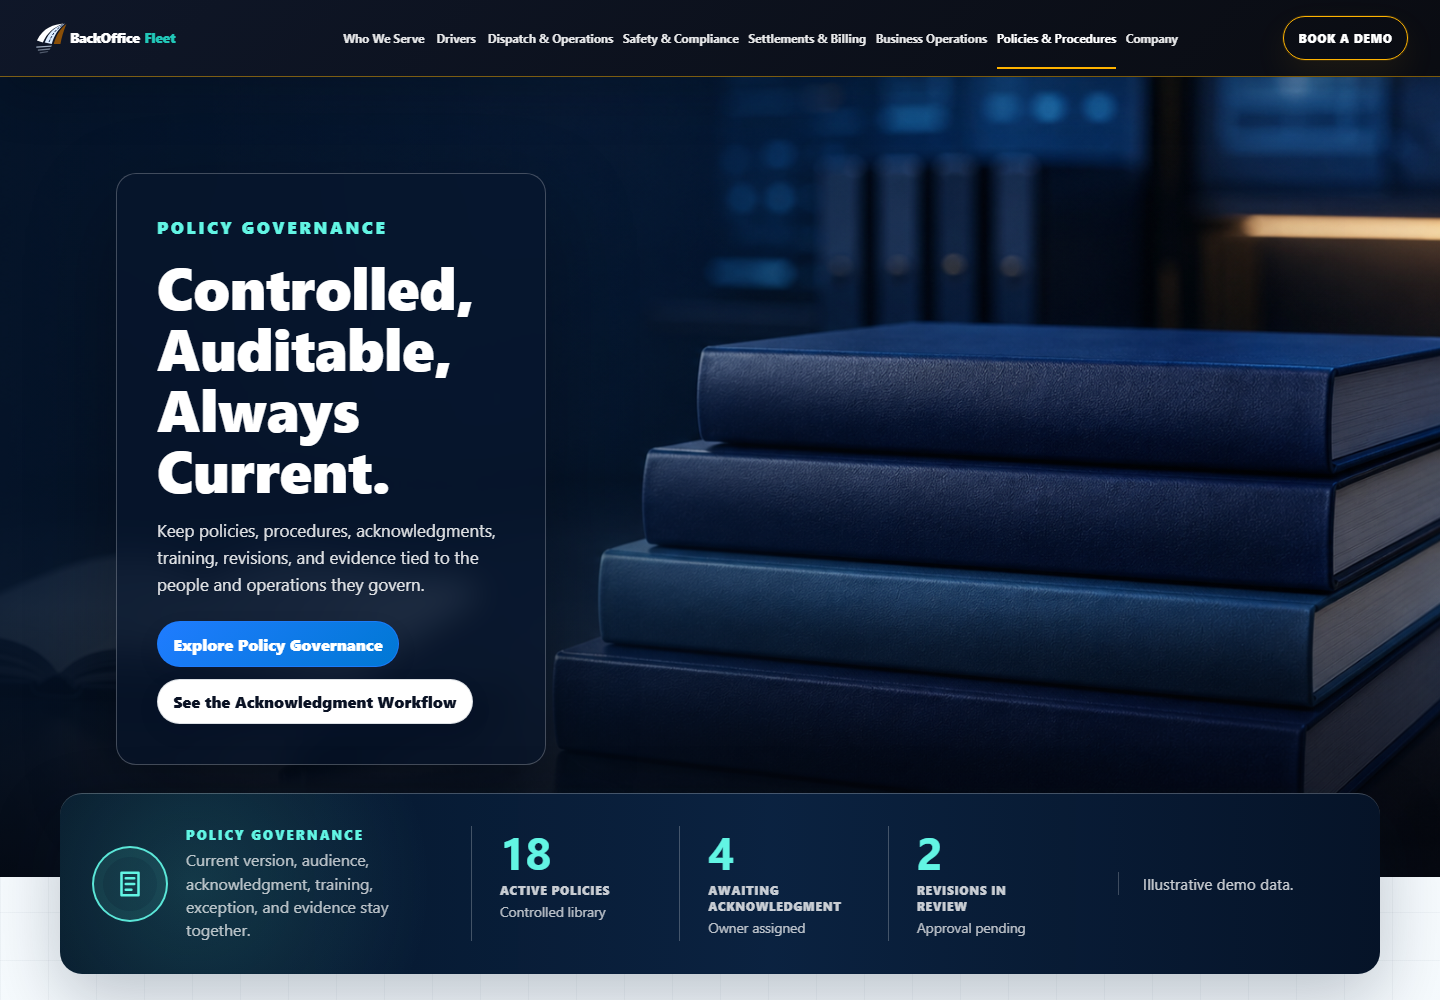
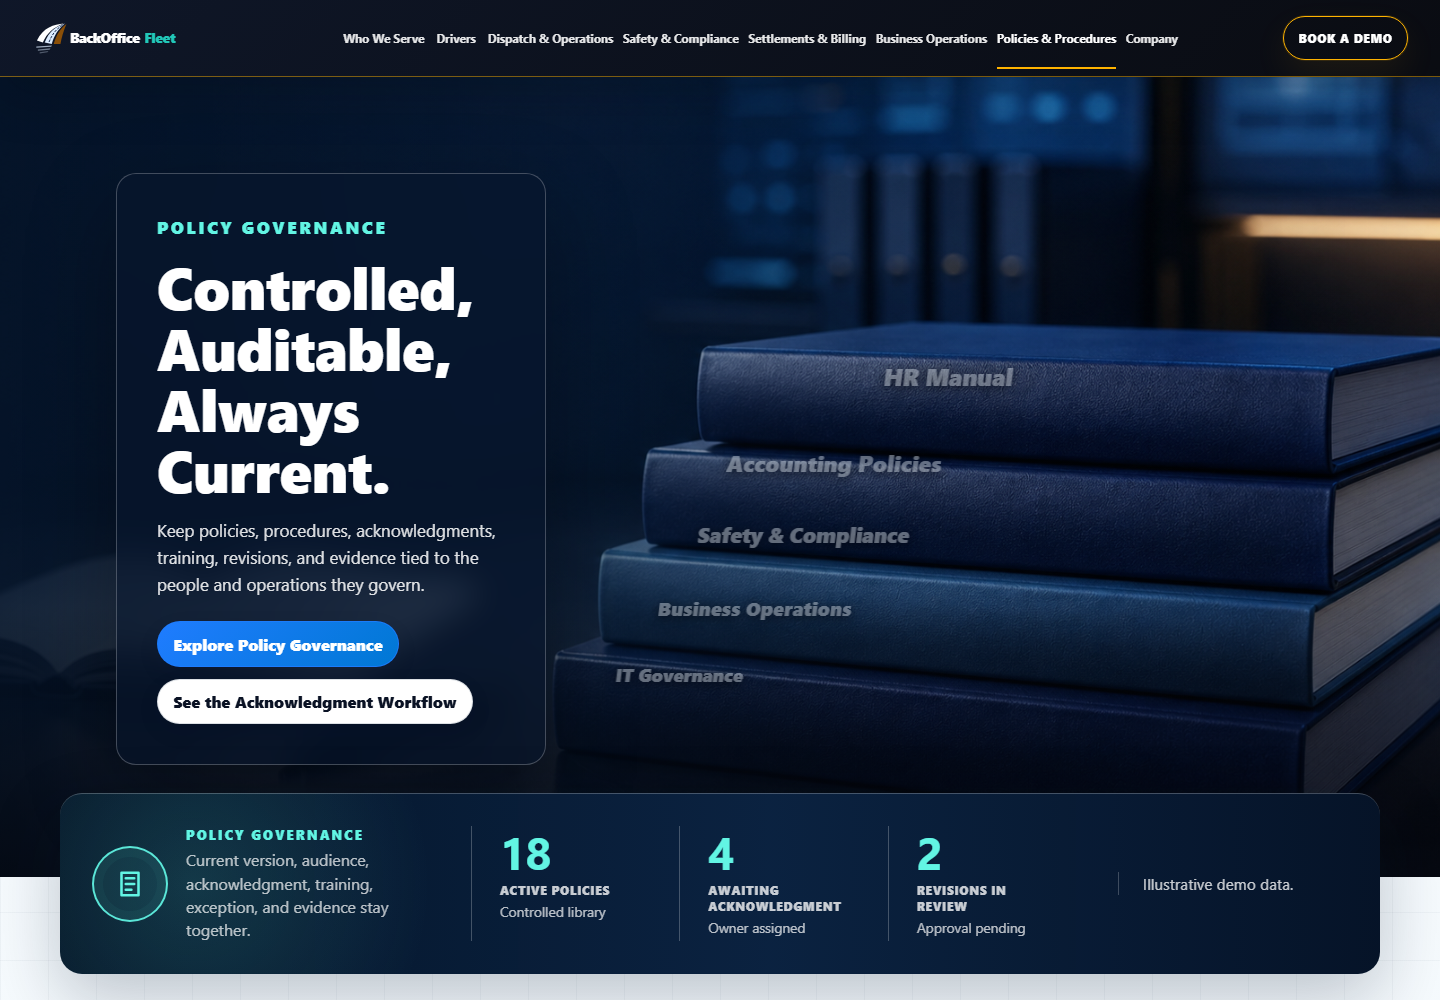
Add policy names to public hero books

diff --git a/Website/assets/css/bof-design-system-2-wave-1.css b/Website/assets/css/bof-design-system-2-wave-1.css
@@ -128,6 +128,64 @@ body.bof-ds2-wave1 {
   content: none;
 }
 
+.page-wave2-policies .wave1-hero__copy {
+  position: relative;
+  z-index: 2;
+}
+
+.policy-hero-spine-labels {
+  position: absolute;
+  inset: 0;
+  z-index: 1;
+  pointer-events: none;
+}
+
+.policy-hero-spine-label {
+  position: absolute;
+  display: block;
+  max-width: 34vw;
+  color: rgba(230, 241, 250, 0.42);
+  font-family: var(--bof-ds2-font-display);
+  font-weight: 850;
+  line-height: 1;
+  letter-spacing: 0;
+  text-shadow: 0 2px 10px rgba(1, 7, 15, 0.72);
+  mix-blend-mode: screen;
+  transform-origin: left center;
+  transform: perspective(620px) rotateX(1deg) skewX(-7deg);
+  white-space: nowrap;
+}
+
+.policy-hero-spine-label--hr {
+  top: 36%;
+  left: 61.4%;
+  font-size: clamp(1.05rem, 1.65vw, 1.56rem);
+}
+
+.policy-hero-spine-label--accounting {
+  top: 46.8%;
+  left: 50.5%;
+  font-size: clamp(1rem, 1.55vw, 1.46rem);
+}
+
+.policy-hero-spine-label--safety {
+  top: 55.8%;
+  left: 48.5%;
+  font-size: clamp(0.95rem, 1.45vw, 1.36rem);
+}
+
+.policy-hero-spine-label--business {
+  top: 65.2%;
+  left: 45.7%;
+  font-size: clamp(0.9rem, 1.35vw, 1.26rem);
+}
+
+.policy-hero-spine-label--it {
+  top: 73.6%;
+  left: 42.8%;
+  font-size: clamp(0.86rem, 1.25vw, 1.14rem);
+}
+
 .wave1-hero__panel,
 .wave1-glass-panel {
   min-width: 0;
@@ -1316,6 +1374,30 @@ body.bof-ds2-wave1 {
   .wave1-step-grid {
     grid-template-columns: repeat(2, minmax(0, 1fr));
   }
+
+  .policy-hero-spine-label {
+    max-width: 42vw;
+  }
+
+  .policy-hero-spine-label--hr {
+    left: 58%;
+  }
+
+  .policy-hero-spine-label--accounting {
+    left: 48%;
+  }
+
+  .policy-hero-spine-label--safety {
+    left: 46%;
+  }
+
+  .policy-hero-spine-label--business {
+    left: 43.5%;
+  }
+
+  .policy-hero-spine-label--it {
+    left: 41%;
+  }
 }
 
 @media (max-width: 920px) {
@@ -1356,6 +1438,10 @@ body.bof-ds2-wave1 {
 
   .wave1-hero--subject-clear::after {
     content: none;
+  }
+
+  .policy-hero-spine-labels {
+    display: none;
   }
 
   .wave1-hero__inner {

diff --git a/Website/policies-procedures/index.html b/Website/policies-procedures/index.html
@@ -49,6 +49,13 @@
               <a class="bof-ds2-button" href="#policy-workflow">See the Acknowledgment Workflow</a>
             </div>
           </div>
+          <div class="policy-hero-spine-labels" aria-hidden="true">
+            <span class="policy-hero-spine-label policy-hero-spine-label--hr">HR Manual</span>
+            <span class="policy-hero-spine-label policy-hero-spine-label--accounting">Accounting Policies</span>
+            <span class="policy-hero-spine-label policy-hero-spine-label--safety">Safety &amp; Compliance</span>
+            <span class="policy-hero-spine-label policy-hero-spine-label--business">Business Operations</span>
+            <span class="policy-hero-spine-label policy-hero-spine-label--it">IT Governance</span>
+          </div>
         </div>
       </section>
 

diff --git a/docs/design-system-2/POLICIES-HERO-LABEL-SPECIFICATION.md b/docs/design-system-2/POLICIES-HERO-LABEL-SPECIFICATION.md
@@ -3,21 +3,20 @@
 ## Source And Output
 
 - Canonical clean source: `Website/assets/images/design-system-2/wave-2/ds2-policies-governance-hero-clean.png`
-- Derived production asset: `Website/assets/images/design-system-2/wave-2/ds2-policies-governance-hero-labeled.png`
-- Reproducible script: `tools/design-system-2/create_policies_hero_labels.py`
-- Image dimensions: `1763 x 892`
-- Output file size: `1,590,016 bytes`
+- Live implementation: HTML in `Website/policies-procedures/index.html`
+- Live styling: CSS in `Website/assets/css/bof-design-system-2-wave-1.css`
 
-The clean source asset remains preserved and is not edited destructively.
+The clean source asset remains preserved and is not edited destructively. The previous derived labeled image remains in the repository history/assets for reference, but the live public Policies hero uses editable HTML/CSS overlay labels instead of baked raster text.
 
 ## Labels Used
 
-| Label | Coordinates | Rotation | Font size | Treatment |
-| --- | ---: | ---: | ---: | --- |
-| Safety & Compliance Manual | `(930, 354)` | `1.0deg` | `28px` | Segoe UI Bold, low-contrast silver-blue, soft embossed shadow/highlight |
-| Driver Qualification Policy | `(875, 488)` | `1.0deg` | `29px` | Segoe UI Bold, low-contrast silver-blue, soft embossed shadow/highlight |
-| Hours-of-Service Procedures | `(815, 607)` | `1.0deg` | `29px` | Segoe UI Bold, low-contrast silver-blue, soft embossed shadow/highlight |
-| Cargo Securement Policy | `(805, 724)` | `1.0deg` | `29px` | Segoe UI Bold, low-contrast silver-blue, soft embossed shadow/highlight |
+| Label | CSS selector | Treatment |
+| --- | --- | --- |
+| HR Manual | `.policy-hero-spine-label--hr` | Low-contrast silver-blue, perspective/skew transform, soft shadow |
+| Accounting Policies | `.policy-hero-spine-label--accounting` | Low-contrast silver-blue, perspective/skew transform, soft shadow |
+| Safety & Compliance | `.policy-hero-spine-label--safety` | Low-contrast silver-blue, perspective/skew transform, soft shadow |
+| Business Operations | `.policy-hero-spine-label--business` | Low-contrast silver-blue, perspective/skew transform, soft shadow |
+| IT Governance | `.policy-hero-spine-label--it` | Low-contrast silver-blue, perspective/skew transform, soft shadow |
 
 ## Visual Rules
 
@@ -25,10 +24,9 @@ The clean source asset remains preserved and is not edited destructively.
 - No label is placed on the open notebook.
 - No main hero headline, BOF logo, navigation, button, or dashboard element is baked into the image.
 - The label color is intentionally restrained so the live HTML hero headline remains the primary text.
-- The slight rotation follows the spine perspective without introducing artificial glow.
-- The live Policies page references the derived labeled asset.
+- The perspective/skew transform follows the spine direction without introducing artificial glow.
+- The live Policies page references the clean hero image and renders labels as an overlay.
 
 ## Mobile Treatment
 
-The labeled asset uses the existing Wave 2 mobile crop position: `70% top`. If owner review finds the labels too subtle or too cropped on narrow screens, the preserved clean source can be reintroduced for mobile through a dedicated mobile-image CSS variable or media-query override.
-
+The label overlay is hidden below the 920px breakpoint. The mobile hero keeps the existing Wave 2 mobile crop position: `70% top`, avoiding cropped or floating labels on narrow screens.

diff --git a/docs/design-system-2/CUSTOMER-DEMO-SECONDARY-HEADER-REPORT.md b/docs/design-system-2/CUSTOMER-DEMO-SECONDARY-HEADER-REPORT.md
@@ -24,14 +24,14 @@ The implementation also adds Business Operations to the demo route at `/customer
 
 The unified customer demo now opens with page identity instead of generic KPI cards, while still keeping the first dashboard section visible near the fold. The owner-approved reference intent is preserved: BOF Vault reads as secure document archive, Policy Governance reads as controlled manuals/governance, and Business Operations reads as an administrative control center without borrowing public-page hero art.
 
-The public Policies & Procedures hero was returned to the clean text-free `ds2-policies-governance-hero-clean.png` asset. The prior labeled derivative remains in the worktree history/assets, but it is not used as the public hero because the text-free clean image is safer and more faithful to the current instruction set.
+The public Policies & Procedures hero uses the clean `ds2-policies-governance-hero-clean.png` asset with live HTML/CSS book-spine labels over the visible manuals. The prior labeled derivative remains in the worktree history/assets, but it is not used as the public hero because the current overlay approach keeps the source image clean while allowing owner-directed policy names to remain editable.
 
 ## Recommendations
 
 - Use the saved screenshot set for owner review before any deployment decision.
 - Keep future portal backgrounds text-free; add any labels as HTML only when the perspective and accessibility can be maintained.
 - Keep the Business Operations compact-header asset scoped to the demo unless the owner explicitly approves a public hero replacement later.
-- If the public hero system is revisited, evaluate Policies labels as perspective-aware overlays rather than raster text baked into the photograph.
+- Keep the public Policies labels as perspective-aware HTML/CSS overlays rather than raster text baked into the photograph.
 
 ## Appendix
 

diff --git a/docs/design-system-2/CUSTOMER-DEMO-SECONDARY-HEADER-ASSET-INVENTORY.md b/docs/design-system-2/CUSTOMER-DEMO-SECONDARY-HEADER-ASSET-INVENTORY.md
@@ -33,7 +33,7 @@ Production destination:
 - The seven backgrounds are used only as clean background photography.
 - No flattened screenshot or stacked reference sheet was sliced into production.
 - All visible interface copy is rendered as HTML/CSS by the customer demo app.
-- Policy Governance book spines remain text-free in production.
+- Policy Governance secondary-header backgrounds remain text-free; the public Policies hero adds owner-requested book-spine names as live HTML/CSS overlay text.
 - BOF Vault uses the clean vault/archive background and keeps access-control language in HTML.
 - Business Operations uses the new compact demo background only; the public Business Operations hero remains unchanged.
 
